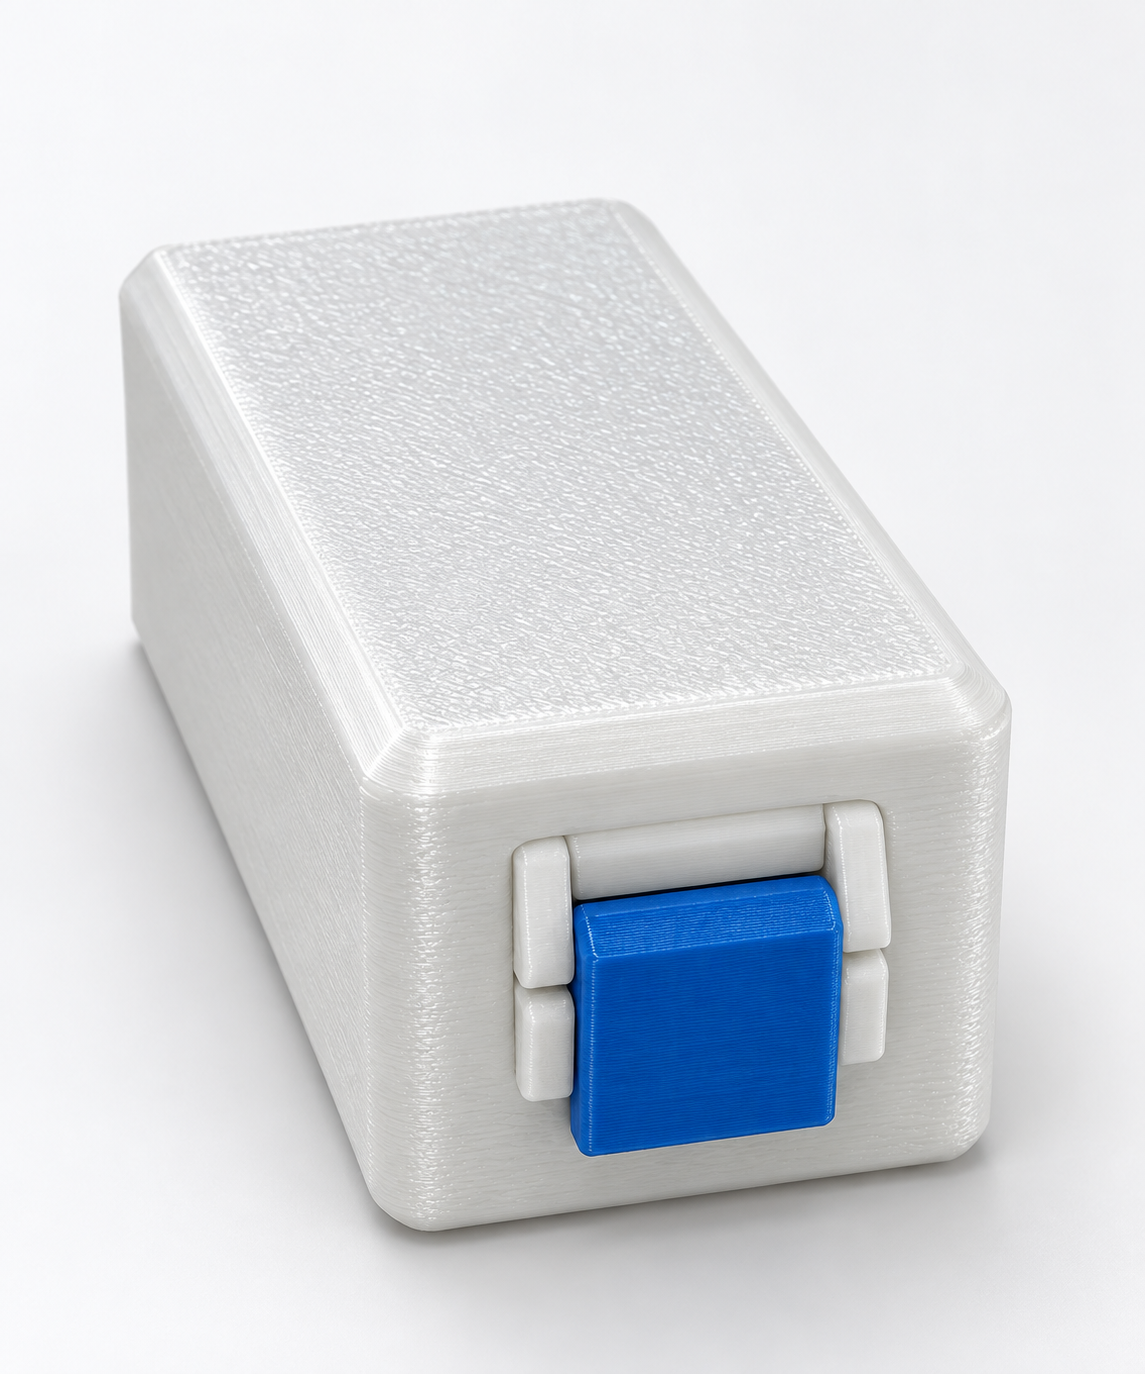
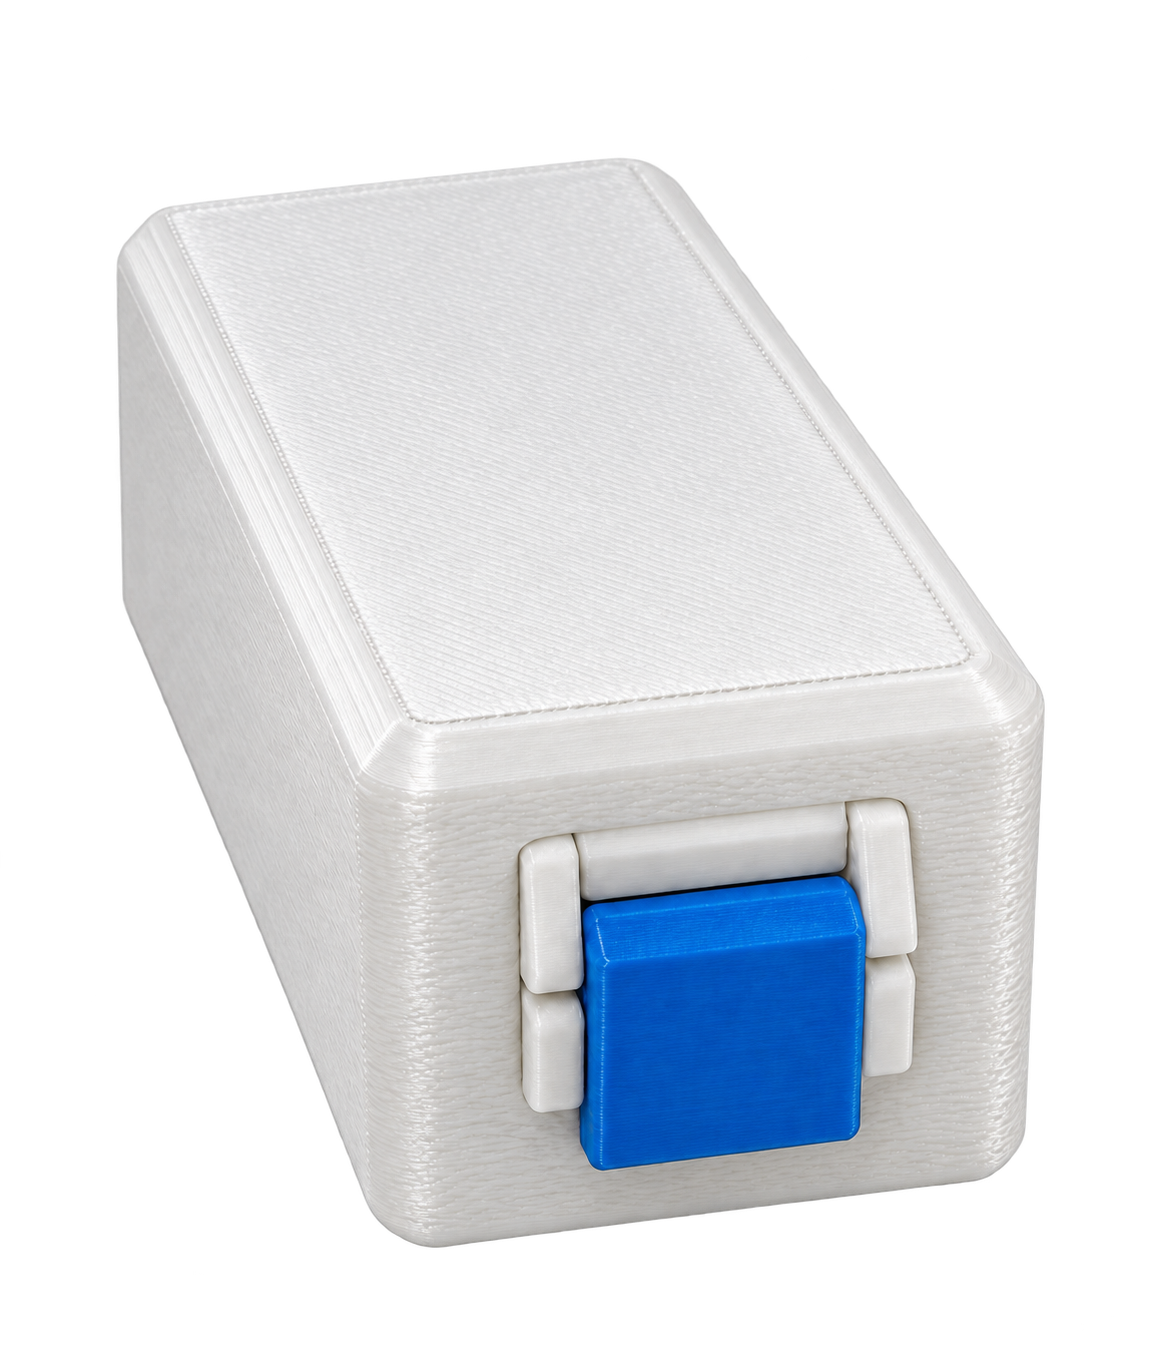
feat: add rainbow image for latches pack and update 6P blue variant image

diff --git a/index.html b/index.html
@@ -749,12 +749,14 @@
             <div class="accessory-card-inner">
               <div class="accessory-ribbon">PACK TRICOLOR</div>
               
-              <div class="accessory-img-wrap latches-preview">
-                <div class="latch-samples-row">
-                  <span class="latch-sample" style="background: #5c6c39;" title="Stealth Olive"></span>
-                  <span class="latch-sample" style="background: #3b7a34;" title="Cyber Emerald"></span>
-                  <span class="latch-sample" style="background: #f200a0;" title="Neon Magenta"></span>
-                </div>
+              <div class="accessory-img-wrap">
+                <img 
+                  id="img-card-latches-pack"
+                  src="/products/latches-pack.png" 
+                  alt="Set 3x Pestillos Tácticos Intercambiables" 
+                  class="accessory-img"
+                  loading="lazy"
+                >
               </div>
 
               <div class="accessory-body">
@@ -777,7 +779,7 @@
                     data-upsell-id="latches-pack"
                     data-name="Set 3x Pestillos Intercambiables"
                     data-price="6.95"
-                    data-img="/products/box-4p.png"
+                    data-img="/products/latches-pack.png"
                   >
                     <span>+ AÑADIR AL PEDIDO</span>
                   </button>

diff --git a/main.js b/main.js
@@ -678,7 +678,7 @@ const UPSELLS_CATALOG = {
     price: 6.95,
     originalPrice: 9.95,
     savings: 3.00,
-    img: '/products/box-4p.png',
+    img: '/products/latches-pack.png',
     desc: 'Pack tricolor de pestillos de precisión: Stealth, Emerald y Magenta.'
   }
 };
@@ -1708,10 +1708,10 @@ const ALL_PRODUCTS_DETAILS = {
     rating: '4.8',
     reviews: '64 Reseñas Verificadas',
     desc: 'Pack tricolor de pestillos de recambio rápido para estuches 4P, 6P y 8P. Permite codificar por colores el contenido de tus péptidos (Stealth Carbon, Cyber Emerald y Neon Magenta).',
-    img: '/products/box-4p.png',
+    img: '/products/latches-pack.png',
     defaultVariant: 'tricolor',
     variants: [
-      { id: 'tricolor', name: 'Pack Tricolor Oficial (3x)', hex: '#5c6c39', img: '/products/box-4p.png' }
+      { id: 'tricolor', name: 'Pack Tricolor Oficial (3x)', hex: '#5c6c39', img: '/products/latches-pack.png' }
     ],
     specs: [
       { label: 'Contenido', val: '3x Pestillos (Stealth, Emerald, Magenta)' },
